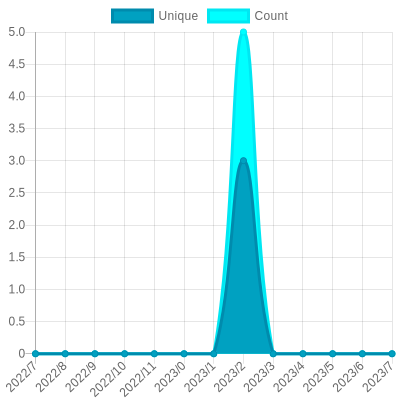
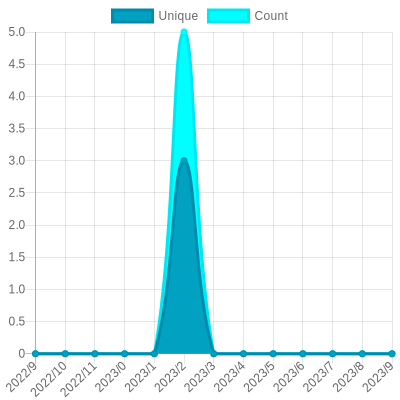
Update views

diff --git a/README.md b/README.md
@@ -133,6 +133,22 @@ The project created and maintained by [gayanvoice](https://github.com/gayanvoice
 	</tr>
 	<tr>
 		<td>
+			<a href="https://github.com/ylmzumut/my-views-counter/tree/master/readme/472131818/year.md">
+				ReactNativeKurulum
+			</a>
+		</td>
+		<td>
+			2022/10/10 6:19 PM UTC
+		</td>
+		<td>
+			3
+		</td>
+		<td>
+			<img alt="Response time graph" src="https://github.com/ylmzumut/my-views-counter/raw/master/graph/472131818/small/year.png" height="20"> 5
+		</td>
+	</tr>
+	<tr>
+		<td>
 			<a href="https://github.com/ylmzumut/my-views-counter/tree/master/readme/472121426/year.md">
 				ToDoApp_ReactNative
 			</a>
@@ -165,7 +181,7 @@ The project created and maintained by [gayanvoice](https://github.com/gayanvoice
 	</tr>
 </table>
 
-<small><i>Last updated on 2022/10/12 12:22 PM UTC</i></small>
+<small><i>Last updated on 2022/10/12 6:20 PM UTC</i></small>
 
 ## ✂Copy and 📋 Paste
 ### Total Views Badge

diff --git a/readme/472131818/year.md b/readme/472131818/year.md
@@ -20,6 +20,28 @@
 	</tr>
 	<tr>
 		<td>
+			<code>2022/10/1</code>
+		</td>
+		<td>
+			<code>0</code>
+		</td>
+		<td>
+			<code>0</code>
+		</td>
+	</tr>
+	<tr>
+		<td>
+			<code>2022/9/1</code>
+		</td>
+		<td>
+			<code>0</code>
+		</td>
+		<td>
+			<code>0</code>
+		</td>
+	</tr>
+	<tr>
+		<td>
 			<code>2022/8/1</code>
 		</td>
 		<td>
@@ -139,32 +161,10 @@
 			<code>0</code>
 		</td>
 	</tr>
-	<tr>
-		<td>
-			<code>2021/9/1</code>
-		</td>
-		<td>
-			<code>0</code>
-		</td>
-		<td>
-			<code>0</code>
-		</td>
-	</tr>
-	<tr>
-		<td>
-			<code>2021/8/1</code>
-		</td>
-		<td>
-			<code>0</code>
-		</td>
-		<td>
-			<code>0</code>
-		</td>
-	</tr>
 </table>
 
 </details>
-<small><i>Last updated on 2022/8/19 6:14 AM UTC</i></small>
+<small><i>Last updated on 2022/10/12 6:19 PM UTC</i></small>
 
 ## ✂Copy and 📋 Paste
 ### SVG Badge

diff --git a/readme/442148592/year.md b/readme/442148592/year.md
@@ -164,7 +164,7 @@
 </table>
 
 </details>
-<small><i>Last updated on 2022/10/12 12:22 PM UTC</i></small>
+<small><i>Last updated on 2022/10/12 6:19 PM UTC</i></small>
 
 ## ✂Copy and 📋 Paste
 ### SVG Badge

diff --git a/readme/445334992/year.md b/readme/445334992/year.md
@@ -164,7 +164,7 @@
 </table>
 
 </details>
-<small><i>Last updated on 2022/10/12 12:22 PM UTC</i></small>
+<small><i>Last updated on 2022/10/12 6:19 PM UTC</i></small>
 
 ## ✂Copy and 📋 Paste
 ### SVG Badge

diff --git a/readme/466756958/year.md b/readme/466756958/year.md
@@ -164,7 +164,7 @@
 </table>
 
 </details>
-<small><i>Last updated on 2022/10/12 12:21 PM UTC</i></small>
+<small><i>Last updated on 2022/10/12 6:19 PM UTC</i></small>
 
 ## ✂Copy and 📋 Paste
 ### SVG Badge

diff --git a/readme/471639041/year.md b/readme/471639041/year.md
@@ -164,7 +164,7 @@
 </table>
 
 </details>
-<small><i>Last updated on 2022/10/12 12:21 PM UTC</i></small>
+<small><i>Last updated on 2022/10/12 6:18 PM UTC</i></small>
 
 ## ✂Copy and 📋 Paste
 ### SVG Badge

diff --git a/readme/471680735/year.md b/readme/471680735/year.md
@@ -164,7 +164,7 @@
 </table>
 
 </details>
-<small><i>Last updated on 2022/10/12 12:22 PM UTC</i></small>
+<small><i>Last updated on 2022/10/12 6:20 PM UTC</i></small>
 
 ## ✂Copy and 📋 Paste
 ### SVG Badge

diff --git a/readme/471953072/year.md b/readme/471953072/year.md
@@ -164,7 +164,7 @@
 </table>
 
 </details>
-<small><i>Last updated on 2022/10/12 12:21 PM UTC</i></small>
+<small><i>Last updated on 2022/10/12 6:19 PM UTC</i></small>
 
 ## ✂Copy and 📋 Paste
 ### SVG Badge

diff --git a/readme/471953382/year.md b/readme/471953382/year.md
@@ -164,7 +164,7 @@
 </table>
 
 </details>
-<small><i>Last updated on 2022/10/12 12:22 PM UTC</i></small>
+<small><i>Last updated on 2022/10/12 6:19 PM UTC</i></small>
 
 ## ✂Copy and 📋 Paste
 ### SVG Badge

diff --git a/readme/471953501/year.md b/readme/471953501/year.md
@@ -164,7 +164,7 @@
 </table>
 
 </details>
-<small><i>Last updated on 2022/10/12 12:21 PM UTC</i></small>
+<small><i>Last updated on 2022/10/12 6:18 PM UTC</i></small>
 
 ## ✂Copy and 📋 Paste
 ### SVG Badge

diff --git a/readme/472121426/year.md b/readme/472121426/year.md
@@ -164,7 +164,7 @@
 </table>
 
 </details>
-<small><i>Last updated on 2022/10/12 12:22 PM UTC</i></small>
+<small><i>Last updated on 2022/10/12 6:19 PM UTC</i></small>
 
 ## ✂Copy and 📋 Paste
 ### SVG Badge
